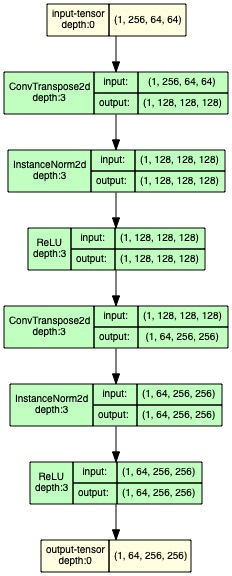
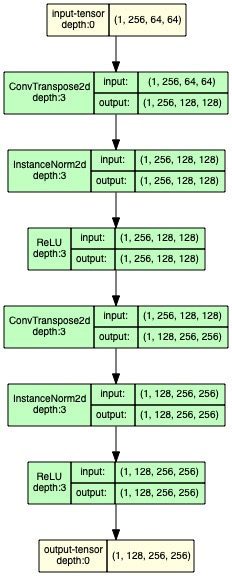
generator code is added in the src #14

diff --git a/src/generator.py b/src/generator.py
@@ -1,0 +1,120 @@
+import sys
+import os
+import argparse
+import torch
+import torch.nn as nn
+from tqdm import tqdm
+from collections import OrderedDict
+from torchsummary import summary
+from torchview import draw_graph
+
+sys.path.append("src/")
+
+from utils import config
+from input_block import InputBlock
+from encoder import EncoderBlock
+from decoder import DecoderBlock
+from residual_block import ResidualBlock
+
+
+class Generator(nn.Module):
+    def __init__(self, in_channels=3):
+        super(Generator, self).__init__()
+
+        self.in_channels = in_channels
+        self.out_channels = 64
+
+        self.kernel = 7
+        self.stride = 1
+        self.padding = 3
+
+        self.layers = []
+
+        self.layers.append(
+            InputBlock(in_channels=self.in_channels, out_channels=self.out_channels)
+        )
+        self.in_channels = self.out_channels
+        self.out_channels *= 2
+
+        for _ in tqdm(range(2)):
+            self.layers.append(
+                EncoderBlock(
+                    in_channels=self.in_channels, out_channels=self.out_channels
+                )
+            )
+
+            self.in_channels = self.out_channels
+            self.out_channels *= 2
+
+        self.in_channels = self.in_channels
+        self.out_channels //= 2
+
+        for _ in tqdm(range(9)):
+            self.layers.append(
+                ResidualBlock(
+                    in_channels=self.in_channels, out_channels=self.in_channels
+                )
+            )
+
+        self.out_channels //= 2
+
+        for _ in tqdm(range(2)):
+            self.layers.append(
+                DecoderBlock(
+                    in_channels=self.in_channels, out_channels=self.out_channels
+                )
+            )
+
+            self.in_channels = self.out_channels
+            self.out_channels //= 2
+
+        self.model = nn.Sequential(*self.layers)
+
+        self.output = nn.Sequential(
+            nn.Conv2d(
+                in_channels=self.out_channels * 2,
+                out_channels=self.in_channels,
+                kernel_size=self.kernel,
+                stride=self.stride,
+                padding=self.padding,
+                bias=False,
+            ),
+            nn.Tanh(),
+        )
+
+    def forward(self, x):
+        if isinstance(x, torch.Tensor):
+            x = self.model(x)
+            return self.output(x)
+
+        else:
+            raise Exception("Unable to process the input".capitalize())
+
+
+if __name__ == "__main__":
+    parser = argparse.ArgumentParser(
+        description="Define the Generator for the DiscoGAN".capitalize()
+    )
+    parser.add_argument(
+        "--in_channels",
+        type=int,
+        default=3,
+        help="Define the number of input channels".capitalize(),
+    )
+    args = parser.parse_args()
+    config_files = config()
+
+    in_channels = args.in_channels
+
+    netG = Generator(in_channels=in_channels)
+
+    print(netG(torch.randn((1, 3, 256, 256))).size())
+
+    print(summary(model=netG, input_size=(3, 256, 256)))
+
+    draw_graph(
+        model=netG, input_data=torch.randn((1, 3, 256, 256))
+    ).visual_graph.render(
+        filename=os.path.join(config_files["path"]["files_path"], "netG1_model"),
+        format="jpeg",
+    )

diff --git a/src/decoder.py b/src/decoder.py
@@ -1,0 +1,91 @@
+import sys
+import os
+import argparse
+import torch
+import torch.nn as nn
+from tqdm import tqdm
+from collections import OrderedDict
+from torchsummary import summary
+from torchview import draw_graph
+
+sys.path.append("src/")
+
+from utils import config
+
+
+class DecoderBlock(nn.Module):
+    def __init__(self, in_channels=256, out_channels=128):
+        super(DecoderBlock, self).__init__()
+
+        self.in_channels = in_channels
+        self.out_channels = out_channels
+
+        self.kernel = 3
+        self.stride = 2
+        self.padding = 1
+        self.output_padding = 1
+
+        self.decoder_block = self.block()
+
+    def block(self):
+        layers = OrderedDict()
+
+        layers["convTranspose"] = nn.ConvTranspose2d(
+            in_channels=self.in_channels,
+            out_channels=self.out_channels,
+            kernel_size=self.kernel,
+            stride=self.stride,
+            padding=self.padding,
+            output_padding=self.output_padding,
+            bias=False,
+        )
+        layers["instance_norm"] = nn.InstanceNorm2d(num_features=self.out_channels)
+        layers["ReLU"] = nn.ReLU(inplace=True)
+
+        return nn.Sequential(layers)
+
+    def forward(self, x):
+        if isinstance(x, torch.Tensor):
+            return self.decoder_block(x)
+
+        else:
+            raise Exception("Unable to process the input".capitalize())
+
+
+if __name__ == "__main__":
+    parser = argparse.ArgumentParser(description="Decoder Block".title())
+    parser.add_argument(
+        "--in_channels",
+        type=int,
+        default=256,
+        help="Define the number of input channels".capitalize(),
+    )
+    parser.add_argument(
+        "--out_channels",
+        type=int,
+        default=128,
+        help="Define the number of output channels".capitalize(),
+    )
+    args = parser.parse_args()
+
+    in_channels = args.in_channels
+    out_channels = args.out_channels
+    num_repetitive = 2
+
+    config_files = config()
+
+    layers = []
+
+    for _ in tqdm(range(num_repetitive)):
+        layers.append(DecoderBlock(in_channels=in_channels, out_channels=out_channels))
+        in_channels = out_channels
+        out_channels //= 2
+
+    model = nn.Sequential(*layers)
+
+    print(model(torch.randn(1, 256, 64, 64)).size())
+    print(summary(model=model, input_size=(256, 64, 64)))
+    draw_graph(model=model, input_data=torch.randn(1, 256, 64, 64)).visual_graph.render(
+        filename=os.path.join(config_files["path"]["files_path"], "netG_decoder_block"),
+        format="jpeg",
+    )
